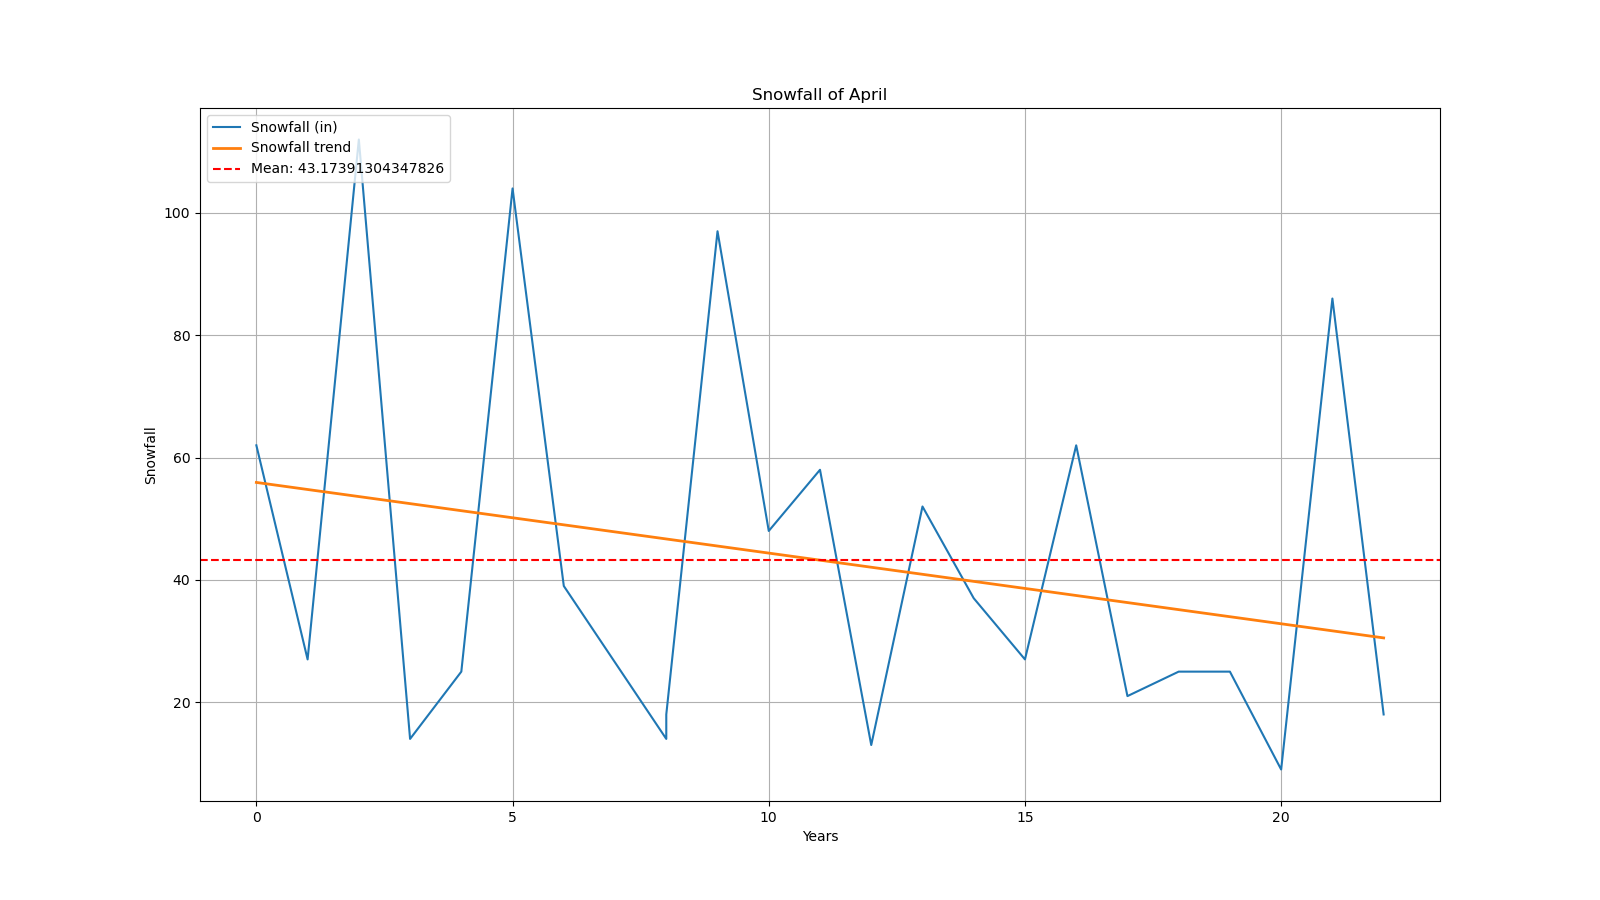
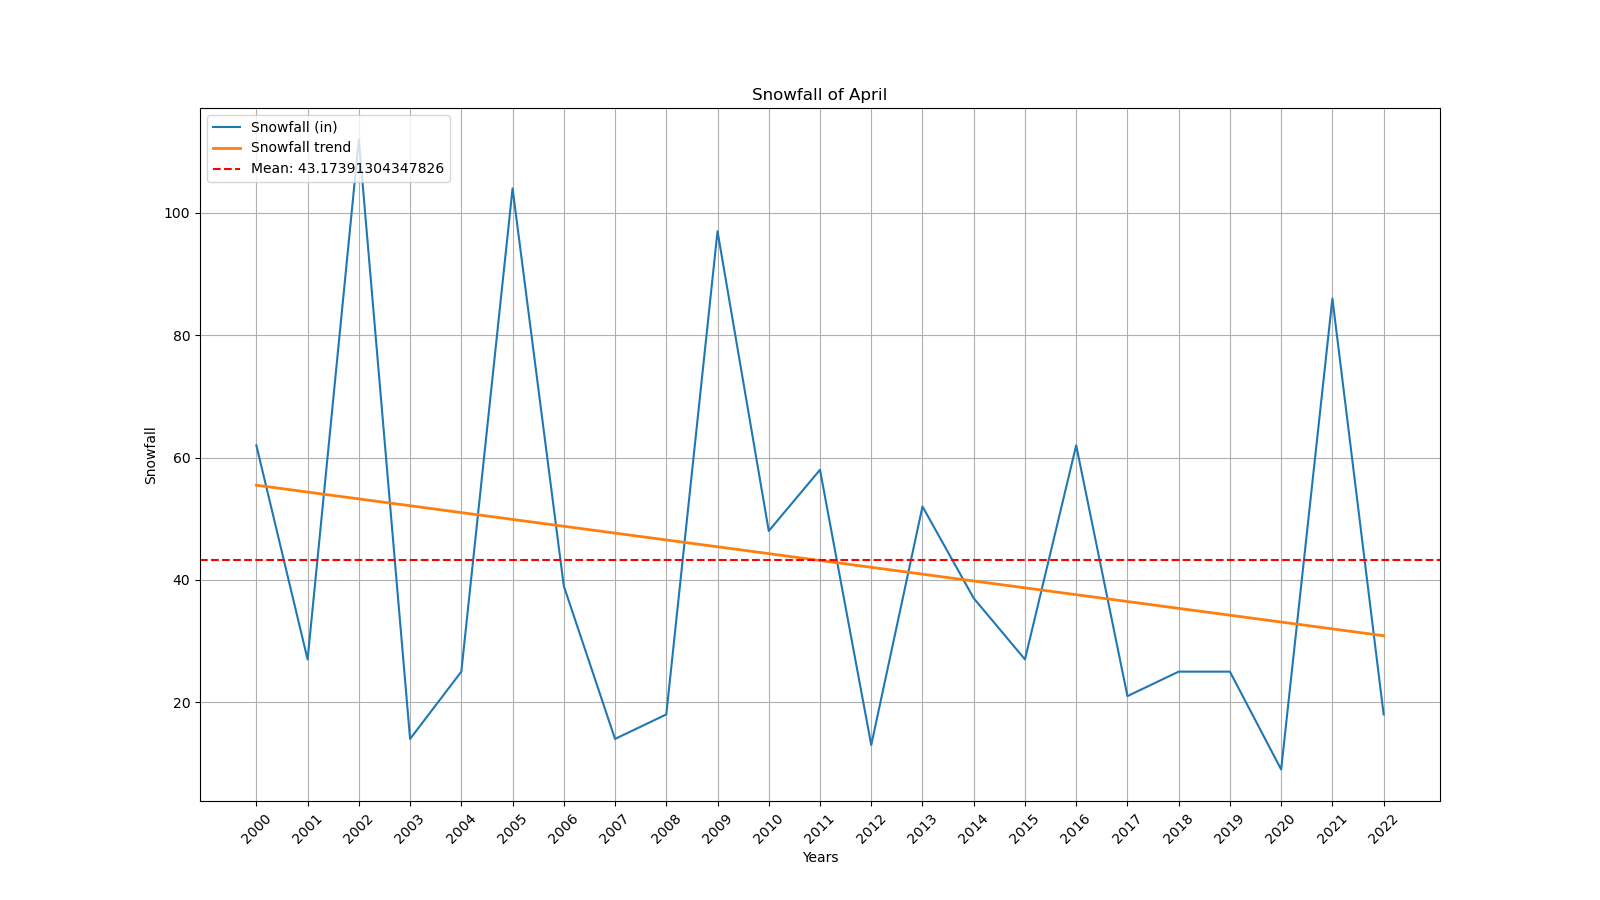
updated graphs

diff --git a/np_arr.py b/np_arr.py
@@ -38,7 +38,7 @@ def plot_snowfall():
     plt.title("Monthly Snowfall")
 
     plt.grid(True)
-    plt.savefig("images/snowfall.png")
+    plt.savefig("static/images/snowfall.png")
 
 
 def plot_snowdays():
@@ -48,7 +48,7 @@ def plot_snowdays():
     plt.title("Monthly Snowfall")
     plt.plot(months, snowdays, label="Average Snowy Days")
     plt.grid(True)
-    plt.savefig("images/snow_days.png")
+    plt.savefig("static/images/snow_days.png")
 
 
 # plot_snowdays()
@@ -132,7 +132,9 @@ def yearly_data(file):
     nov = np.array(nov)
     dec = np.array(dec)
 
-    years_raw = years
+    # set up years
+    years_raw = range(2000, 2023)
+
     years = years - np.min(years)  # normalize
 
     # now get the slope for each month
@@ -162,7 +164,8 @@ def yearly_data(file):
     oct_m = np.mean(oct)
     nov_m = np.mean(nov)
     dec_m = np.mean(dec)
-    # print(years)
+    print(years)
+    print(years_raw)
 
     plt.figure(figsize=(16, 9))
     plt.xlabel("Years")
@@ -170,11 +173,12 @@ def yearly_data(file):
     plt.title("Snowfall of January")
     plt.plot(years, jan, label="Snowfall (in)")
     jan_trend = jan_x * years + jan_int
+    plt.xticks(ticks=years, labels=years_raw, rotation=45)
     plt.plot(years, jan_trend, linewidth=2, label=f"Snowfall trend")
     plt.axhline(jan_m, color='r', linestyle='--', label=f"Mean: {jan_m}")
     plt.grid(True)
     plt.legend(loc="upper left")
-    plt.savefig("images/Jan")
+    plt.savefig("static/images/Jan")
 
     plt.figure(figsize=(16, 9))
     plt.xlabel("Years")
@@ -182,11 +186,12 @@ def yearly_data(file):
     plt.title("Snowfall of February")
     plt.plot(years, feb, label="Snowfall (in)")
     feb_trend = feb_x * years + feb_int
+    plt.xticks(ticks=years, labels=years_raw, rotation=45)
     plt.plot(years, feb_trend, linewidth=2, label="Snowfall trend")
     plt.axhline(feb_m, color='r', linestyle='--', label=f"Mean: {feb_m}")
     plt.grid(True)
     plt.legend(loc="upper left")
-    plt.savefig("images/Feb")
+    plt.savefig("static/images/Feb")
 
     plt.figure(figsize=(16, 9))
     plt.xlabel("Years")
@@ -194,11 +199,12 @@ def yearly_data(file):
     plt.title("Snowfall of March")
     plt.plot(years, mar, label="Snowfall (in)")
     march_trend = mar_x * years + mar_int
+    plt.xticks(ticks=years, labels=years_raw, rotation=45)
     plt.plot(years, march_trend, linewidth=2, label="Snowfall trend")
     plt.axhline(mar_m, color='r', linestyle='--', label=f"Mean: {mar_m}")
     plt.grid(True)
     plt.legend(loc="upper left")
-    plt.savefig("images/Mar")
+    plt.savefig("static/images/Mar")
 
     plt.figure(figsize=(16, 9))
     plt.xlabel("Years")
@@ -206,11 +212,12 @@ def yearly_data(file):
     plt.title("Snowfall of April")
     plt.plot(years, apr, label="Snowfall (in)")
     apr_trend = apr_x * years + apr_int
+    plt.xticks(ticks=years, labels=years_raw, rotation=45)
     plt.plot(years, apr_trend, linewidth=2, label="Snowfall trend")
     plt.axhline(apr_m, color='r', linestyle='--', label=f"Mean: {apr_m}")
     plt.grid(True)
     plt.legend(loc="upper left")
-    plt.savefig("images/Apr")
+    plt.savefig("static/images/Apr")
 
     plt.figure(figsize=(16, 9))
     plt.xlabel("Years")
@@ -218,11 +225,12 @@ def yearly_data(file):
     plt.title("Snowfall of May")
     plt.plot(years, may, label="Snowfall (in)")
     may_trend = may_x * years + may_int
+    plt.xticks(ticks=years, labels=years_raw, rotation=45)
     plt.plot(years, may_trend, linewidth=2, label="Snowfall trend")
     plt.axhline(may_m, color='r', linestyle='--', label=f"Mean: {may_m}")
     plt.grid(True)
     plt.legend(loc="upper left")
-    plt.savefig("images/May")
+    plt.savefig("static/images/May")
 
     plt.figure(figsize=(16, 9))
     plt.xlabel("Years")
@@ -230,11 +238,12 @@ def yearly_data(file):
     plt.title("Snowfall of June")
     plt.plot(years, jun, label="Snowfall (in)")
     jun_trend = jun_x * years + jun_int
+    plt.xticks(ticks=years, labels=years_raw, rotation=45)
     plt.plot(years, jun_trend, linewidth=2, label="Snowfall trend")
     plt.axhline(jun_m, color='r', linestyle='--', label=f"Mean: {jun_m}")
     plt.grid(True)
     plt.legend(loc="upper left")
-    plt.savefig("images/Jun")
+    plt.savefig("static/images/Jun")
 
     plt.figure(figsize=(16, 9))
     plt.xlabel("Years")
@@ -242,11 +251,12 @@ def yearly_data(file):
     plt.title("Snowfall of July")
     plt.plot(years, jul, label="Snowfall (in)")
     jul_trend = jul_x * years + jul_int
+    plt.xticks(ticks=years, labels=years_raw, rotation=45)
     plt.plot(years, jul_trend, linewidth=2, label="Snowfall trend")
     plt.axhline(jul_m, color='r', linestyle='--', label=f"Mean: {jul_m}")
     plt.grid(True)
     plt.legend(loc="upper left")
-    plt.savefig("images/Jul")
+    plt.savefig("static/images/Jul")
 
     plt.figure(figsize=(16, 9))
     plt.xlabel("Years")
@@ -254,11 +264,12 @@ def yearly_data(file):
     plt.title("Snowfall of August")
     plt.plot(years, aug, label="Snowfall (in)")
     aug_trend = aug_x * years + aug_int
+    plt.xticks(ticks=years, labels=years_raw, rotation=45)
     plt.plot(years, aug_trend, linewidth=2, label="Snowfall trend")
     plt.axhline(aug_m, color='r', linestyle='--', label=f"Mean: {aug_m}")
     plt.grid(True)
     plt.legend(loc="upper left")
-    plt.savefig("images/Aug")
+    plt.savefig("static/images/Aug")
 
     plt.figure(figsize=(16, 9))
     plt.xlabel("Years")
@@ -266,11 +277,12 @@ def yearly_data(file):
     plt.title("Snowfall of September")
     plt.plot(years, sep, label="Snowfall (in)")
     sep_trend = sep_x * years + sep_int
+    plt.xticks(ticks=years, labels=years_raw, rotation=45)
     plt.plot(years, sep_trend, linewidth=2, label="Snowfall trend")
     plt.axhline(sep_m, color='r', linestyle='--', label=f"Mean: {sep_m}")
     plt.grid(True)
     plt.legend(loc="upper left")
-    plt.savefig("images/Sep")
+    plt.savefig("static/images/Sep")
 
     plt.figure(figsize=(16, 9))
     plt.xlabel("Years")
@@ -278,11 +290,12 @@ def yearly_data(file):
     plt.title("Snowfall of October")
     plt.plot(years, oct, label="Snowfall (in)")
     oct_trend = oct_x * years + oct_int
+    plt.xticks(ticks=years, labels=years_raw, rotation=45)
     plt.plot(years, oct_trend, linewidth=2, label="Snowfall trend")
     plt.axhline(oct_m, color='r', linestyle='--', label=f"Mean: {oct_m}")
     plt.grid(True)
     plt.legend(loc="upper left")
-    plt.savefig("images/Oct")
+    plt.savefig("static/images/Oct")
 
     plt.figure(figsize=(16, 9))
     plt.xlabel("Years")
@@ -290,11 +303,12 @@ def yearly_data(file):
     plt.title("Snowfall of November")
     plt.plot(years, nov, label="Snowfall (in)")
     nov_trend = nov_x * years + nov_int
+    plt.xticks(ticks=years, labels=years_raw, rotation=45)
     plt.plot(years, nov_trend, linewidth=2, label="Snowfall trend")
     plt.axhline(nov_m, color='r', linestyle='--', label=f"Mean: {nov_m}")
     plt.grid(True)
     plt.legend(loc="upper left")
-    plt.savefig("images/Nov")
+    plt.savefig("static/images/Nov")
 
     plt.figure(figsize=(16, 9))
     plt.xlabel("Years")
@@ -302,11 +316,12 @@ def yearly_data(file):
     plt.title("Snowfall of December")
     plt.plot(years, dec, label="Snowfall (in)")
     dec_trend = dec_x * years + dec_int
+    plt.xticks(ticks=years, labels=years_raw, rotation=45)
     plt.plot(years, dec_trend, linewidth=2, label="Snowfall trend")
     plt.axhline(dec_m, color='r', linestyle='--', label=f"Mean: {dec_m}")
     plt.grid(True)
     plt.legend(loc="upper left")
-    plt.savefig("images/Dec")
+    plt.savefig("static/images/Dec")
 
 
 yearly_data("yearly_month_snowfall.txt")
